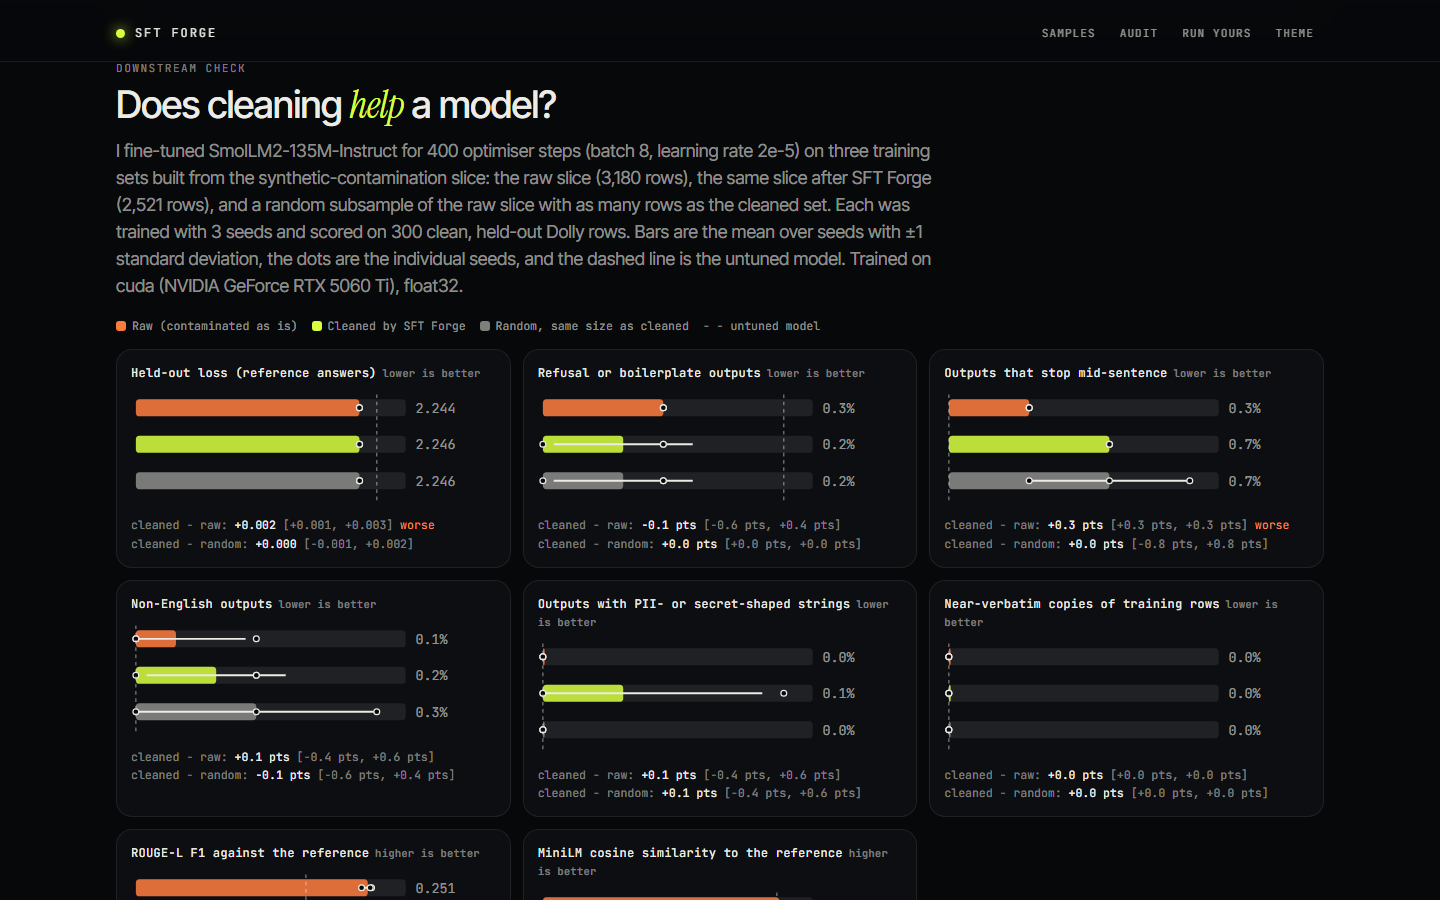
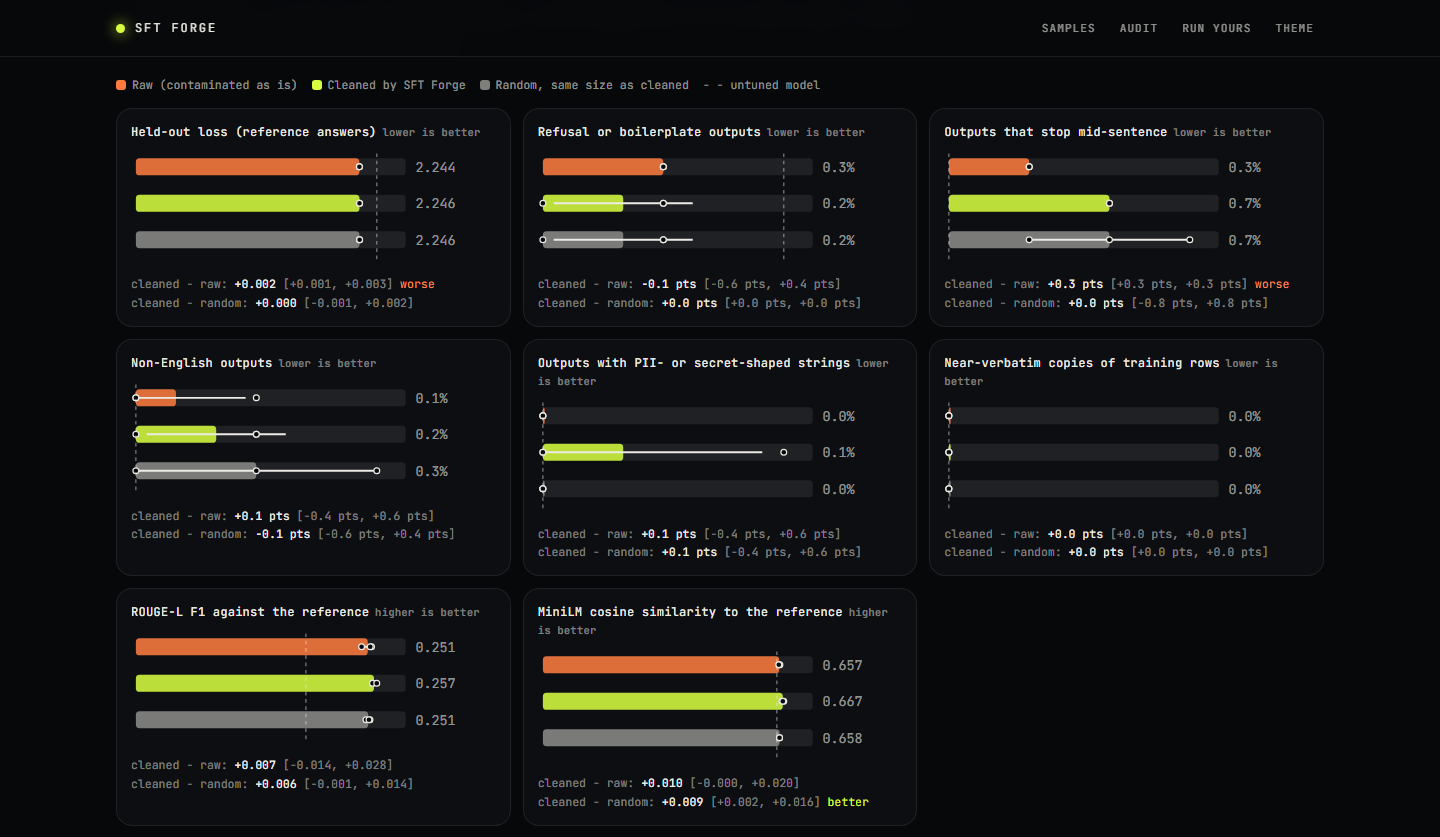
README: fix reviewed items, end-state screenshots, readable ft verdict, opaque top bar, section order

diff --git a/docs/forge.css b/docs/forge.css
@@ -53,7 +53,7 @@ button { cursor: pointer; }
 
 /* header */
 .top { position: sticky; top: 0; z-index: 30; backdrop-filter: blur(14px); -webkit-backdrop-filter: blur(14px);
-  background: color-mix(in srgb, var(--void) 78%, transparent); border-bottom: 1px solid var(--line); }
+  background: color-mix(in srgb, var(--void) 96%, transparent); border-bottom: 1px solid var(--line); }
 .top .wrap { display: flex; align-items: center; gap: 14px; height: 56px; }
 .brand { font-family: var(--mono); font-size: 12px; letter-spacing: .16em; text-transform: uppercase; text-decoration: none; display: flex; align-items: center; gap: 10px; }
 .brand i { width: 9px; height: 9px; border-radius: 50%; background: var(--lime); box-shadow: 0 0 14px var(--lime); display: inline-block; }

diff --git a/scripts/shoot.py b/scripts/shoot.py
@@ -33,15 +33,20 @@ def main() -> None:
             page.on("pageerror", lambda e, n=name: errors.append(f"{n} pageerror: {e}"))
             page.goto(args.url.rstrip("/") + "/?run=bench", wait_until="load")   # the benchmark run has visible rejects
             page.wait_for_function("window.__forge && window.__forge.sim.n > 0")
-            page.evaluate("document.querySelector('#stage').scrollIntoView({block: 'center'})")
-            page.wait_for_timeout(4200)
-            page.screenshot(path=str(out / f"{name}-streaming.png"))
             report[f"{name}_hscroll"] = page.evaluate("document.documentElement.scrollWidth - window.innerWidth")
-            page.click("#skip")
-            page.wait_for_timeout(600)
-            page.screenshot(path=str(out / f"{name}-done.png"), full_page=True)
-            # open the inspector on the first rejected row in the log
-            # open a clear, correct rejection: a refusal caught at the quality gate
+            page.click("#skip")                                   # the END state of the replay, never a mid-run frame
+            page.evaluate("document.fonts.ready")
+            page.wait_for_timeout(1500)
+            # cut at card boundaries below the sticky bar: the run chooser through the stat tiles on desktop,
+            # the whole stage card on a phone
+            top_sel, bottom_sel = ("#runs", "#stats") if not touch else ("#stage", "#stage")
+            page.evaluate(f"window.scrollTo(0, document.querySelector('{top_sel}').getBoundingClientRect().top + scrollY - {70 if not touch else 66})")
+            page.wait_for_timeout(500)
+            r1 = page.evaluate(f"document.querySelector('{bottom_sel}').getBoundingClientRect().bottom")
+            clip_top = 64
+            page.screenshot(path=str(out / f"{name}-streaming.png"),
+                            clip={"x": 0, "y": clip_top, "width": vp["width"], "height": min(vp["height"], r1 + 10) - clip_top})
+            # open the inspector on a clear, correct rejection: a refusal caught at the quality gate
             page.evaluate("document.querySelector('#f-reason').value='refusal_boilerplate'; document.querySelector('#f-reason').dispatchEvent(new Event('change'))")
             page.wait_for_timeout(200)
             page.locator("#logsp .row").first.scroll_into_view_if_needed()
@@ -49,13 +54,24 @@ def main() -> None:
                 page.locator("#logsp .row").first.tap()
             else:
                 page.locator("#logsp .row").first.click()
-            page.wait_for_timeout(700)
-            page.screenshot(path=str(out / f"{name}-inspector.png"))
+            page.wait_for_timeout(900)
+            page.evaluate("document.querySelector('#i-body').scrollTop = 0")
+            page.wait_for_timeout(200)
+            # cut at the bottom of the last check row that is fully visible, not through a row
+            cut = page.evaluate("""() => { const lim = innerHeight - 4; let b = 0;
+                document.querySelectorAll('#i-body .chk').forEach(e => { const r = e.getBoundingClientRect(); if (r.bottom <= lim && r.bottom > b) b = r.bottom; });
+                return b || innerHeight; }""")
+            page.screenshot(path=str(out / f"{name}-inspector.png"), clip={"x": 0, "y": 0, "width": vp["width"], "height": min(vp["height"], cut + 8)})
             if args.final:  # the downstream experiment view
                 page.click("#i-close")
-                page.evaluate("document.querySelector('#finetune').scrollIntoView({block: 'start'})")
-                page.wait_for_timeout(500)
-                page.screenshot(path=str(out / f"{name}-finetune.png"), full_page=False)
+                page.wait_for_timeout(700)
+                page.evaluate("window.scrollTo(0, document.querySelector('#ft-legend').getBoundingClientRect().top + scrollY - 76)")
+                page.wait_for_timeout(600)
+                # cut under the last card row that fits entirely in the viewport
+                cut = page.evaluate("""() => { const lim = innerHeight - 4; let b = 0;
+                    document.querySelectorAll('#ft-grid > *').forEach(e => { const r = e.getBoundingClientRect(); if (r.bottom <= lim && r.bottom > b) b = r.bottom; });
+                    return b || innerHeight; }""")
+                page.screenshot(path=str(out / f"{name}-finetune.png"), clip={"x": 0, "y": 0, "width": vp["width"], "height": min(vp["height"], cut + 12)})
             small = page.evaluate(
                 "[...document.querySelectorAll('button, a, select, input, label.btn')].filter(e => e.offsetParent && "
                 "(e.getBoundingClientRect().height < 43.5) && !e.classList.contains('sr')).map(e => e.id || e.textContent.trim().slice(0,20))")
@@ -69,7 +85,7 @@ def main() -> None:
 
         dst = ROOT / "docs" / "assets"
         dst.mkdir(parents=True, exist_ok=True)
-        for n in ("desktop-streaming", "phone-streaming", "desktop-inspector", "phone-inspector", "desktop-finetune", "phone-finetune"):
+        for n in ("desktop-streaming", "phone-streaming", "phone-inspector", "desktop-finetune"):
             shutil.copy(out / f"{n}.png", dst / f"{n}.png")
 
 

diff --git a/scripts/check_numbers.py b/scripts/check_numbers.py
@@ -333,20 +333,34 @@ def block_ft_verdict(s: dict) -> str:
             f"(cleaned) and {mean('random', 'loss'):.3f} (random), and ROUGE-L rose from {mean('base', 'rouge_l'):.3f} to "
             f"{mean('raw', 'rouge_l'):.3f}, {mean('cleaned', 'rouge_l'):.3f} and {mean('random', 'rouge_l'):.3f}.")
     parts = [head]
+    explained = False
+
+    def short(label: str) -> str:
+        base = label.split(" (")[0]
+        first = base.split(" ")[0]
+        return base if any(ch.isupper() for ch in first[1:]) else base[0].lower() + base[1:]
+
     for key, name in (("cleaned_minus_raw", "raw"), ("cleaned_minus_random", "the size-matched random subsample")):
-        better = [f"{m['label'][0].lower() + m['label'][1:]} ({sgn(m['key'], f['paired'][key][m['key']]['mean_diff'])})" for m in f["metrics"]
+        better = [f"{short(m['label'])} ({sgn(m['key'], f['paired'][key][m['key']]['mean_diff'])})" for m in f["metrics"]
                   if f["paired"][key][m["key"]]["favours_cleaned"] is True]
-        worse = [f"{m['label'][0].lower() + m['label'][1:]} ({sgn(m['key'], f['paired'][key][m['key']]['mean_diff'])})" for m in f["metrics"]
+        worse = [f"{short(m['label'])} ({sgn(m['key'], f['paired'][key][m['key']]['mean_diff'])})" for m in f["metrics"]
                  if f["paired"][key][m["key"]]["favours_cleaned"] is False]
         if not better and not worse:
             parts.append(f"Against {name}, no measure had a paired {n_seeds}-seed 95% interval that excludes zero.")
-        else:
-            bits = []
-            if better:
-                bits.append("statistically better on " + "; ".join(better))
-            if worse:
-                bits.append("statistically worse on " + "; ".join(worse))
-            parts.append(f"Against {name}, the cleaned set was " + " and ".join(bits) + ", meaning the {n}-seed 95% interval excludes zero.".replace("{n}", str(n_seeds)))
+            continue
+
+        def joined(items: list[str]) -> str:
+            return items[0] if len(items) == 1 else ", ".join(items[:-1]) + " and on " + items[-1]
+
+        bits = []
+        if better:
+            bits.append("statistically better on " + joined(better))
+        if worse:
+            bits.append("statistically worse on " + joined(worse))
+        subject = "the cleaned set was" if not explained else "it was"
+        tail = ", on the same criterion." if explained else f", meaning the {n_seeds}-seed 95% interval excludes zero."
+        explained = True
+        parts.append(f"Against {name}, {subject} " + " and ".join(bits) + tail)
     return " ".join(parts)
 
 

diff --git a/README.md b/README.md
@@ -1,16 +1,21 @@
 # SFT Forge
 
+[![CI](https://github.com/Aditya2616/SFT-Forge/actions/workflows/ci.yml/badge.svg)](https://github.com/Aditya2616/SFT-Forge/actions/workflows/ci.yml)
+[![Licence: MIT](https://img.shields.io/badge/licence-MIT-blue.svg)](LICENSE)
+
 **Clean instruction-tuning data, before it ever reaches training.**
 
 SFT Forge takes candidate instruction-response pairs (Alpaca, Dolly, chat-messages or ShareGPT JSONL) and passes them through three gates: **dedupe**, **quality** and **safety**. The survivors are balanced across categories, split into train and validation, and exported as a supervised fine-tuning set together with an audit report. Every rejected row keeps its reasons and the measured scores that caused them, so nothing is dropped silently.
 
+On the one downstream test I ran (a 135M model, three seeds), cleaning made no practical difference; the gates are measured against injected defects, not shown to improve models (see Results).
+
 Stack: Python, Pandas, Hugging Face Datasets. It runs fully offline on CPU after a one-time model download and needs no API keys.
 
-![The pipeline streaming a recorded run](docs/assets/desktop-streaming.png)
+![The pipeline after a recorded run on the synthetic benchmark: lanes of kept and rejected samples, gate counters and the category mix](docs/assets/desktop-streaming.png)
 
 <p>
-<img src="docs/assets/phone-streaming.png" alt="Phone layout" width="240">
-<img src="docs/assets/phone-inspector.png" alt="Per-sample inspector on a phone" width="240">
+<img src="docs/assets/phone-streaming.png" alt="Phone layout of the finished run: the pipeline lanes and gate counters" width="260">
+<img src="docs/assets/phone-inspector.png" alt="The per-sample inspector on a phone, listing every rule's measured value against its threshold" width="260">
 </p>
 
 The screenshots show the synthetic-contamination run, where rejections are frequent enough to watch. The web UI (in `docs/`) replays two real recorded runs, or runs your own pasted or uploaded JSONL through the local server. Samples that fail a gate flash orange where they were caught and are knocked out of the lane with their reason code; survivors turn lime as they land in the SFT set. Tap any sample to see why it was rejected first, then every rule's measured value against its threshold.
@@ -43,56 +48,6 @@ The frame carries audit columns (`status`, `gate`, `reasons`, `scores`). A row i
 - **Balance and export:** no category may exceed `max_share` of the final set (skipped below 100 survivors), then a seeded stratified split.
 
 All thresholds are in [`configs/default.yaml`](configs/default.yaml).
-
-## Quickstart
-
-Python 3.11+ (developed on 3.13). It runs on CPU; if a CUDA build of PyTorch is installed it uses the GPU automatically. On a machine without a GPU you can save a large download by installing the CPU build of PyTorch before the project (I did not run this command, since PyTorch was already installed here):
-
-```bash
-pip install torch --index-url https://download.pytorch.org/whl/cpu
-```
-
-The first run downloads two small models (about 0.5 GB) from Hugging Face.
-
-```bash
-git clone https://github.com/Aditya2616/SFT-Forge.git
-cd SFT-Forge
-python -m venv .venv
-source .venv/bin/activate        # Windows: .venv\Scripts\activate
-pip install -e ".[dev]"
-
-# 1. a small messy file I wrote for this: duplicates, cut-off answers, refusals, PII, fake secrets
-sftforge run examples/messy_sample.jsonl --config configs/default.yaml --out out/messy
-cat out/messy/audit.md
-
-# 2. the committed Dolly sample, already cleaned, so nearly everything is kept
-sftforge run data_sample/dolly_cleaned_sample.jsonl --config configs/default.yaml --out out/sample
-
-# web UI with live mode (paste or upload JSONL)
-sftforge serve --port 8104       # then open http://127.0.0.1:8104/
-
-# the device is picked automatically (cuda if available, else cpu); override with
-#   --device cpu   or   SFTFORGE_DEVICE=cpu
-```
-
-`examples/messy_sample.jsonl` has 60 rows I wrote (MIT, not Dolly): clean rows across eight categories plus exact, near and paraphrase duplicates, cut-off answers, refusals and boilerplate, two wrong-language rows, two off-topic answers, emails, phone numbers and a test card number to redact, two obviously fake secrets in documented example formats, and one mildly toxic row. Running it on the CPU gave this audit (`scripts/record_messy.py` stores it in `results/messy_sample_audit.json`; it matches `out/messy/audit.md`):
-
-<!-- gen:messy -->
-| Gate | In | Rejected | Out | Reasons |
-|---|---:|---:|---:|---|
-| dedupe | 60 | 6 | 54 | exact 2, near 2, semantic 2 |
-| quality | 54 | 12 | 42 | refusal 5, truncated 3, off topic 2, wrong language 2 |
-| safety | 42 | 3 | 39 | secret 2, toxicity 1 |
-| balance | 39 | 0 | 39 | none |
-
-39 of 60 rows are kept (31 train, 8 validation); 2 emails, 2 phone numbers and 1 card number were redacted in kept rows, and 21 rows were rejected.
-<!-- /gen:messy -->
-
-Every injected defect was caught and no clean row was rejected, but the file is small and I wrote it to be caught, so it shows what each gate does and is not a measurement (see Results for those). The same file loads behind the **Load a messy example** button in the web UI's "Your data" tab, so you can run it live in one tap.
-
-`out/<name>/` contains `train.jsonl`, `val.jsonl`, chat-format files, a Hugging Face dataset, `DATASET_CARD.md`, `audit.json`, `audit.md` and `rejects.jsonl`. To host the demo statically, serve `docs/` with any file server; recorded runs need no backend.
-
-Live mode limits: 500 rows and 2 MB per request (`SFTFORGE_MAX_ROWS`, `SFTFORGE_MAX_UPLOAD_BYTES`), input and results held in memory (the zip export is built in a temporary folder that is deleted afterwards), nothing executed. The model choice and its revisions cannot be changed from a request.
 
 ## Results
 
@@ -194,7 +149,7 @@ As implemented, the check is a net loss, so I left it off. It adds no recall on 
 
 The benchmark shows that the gates catch injected defects. This section asks the downstream question: does a small model trained on the cleaned data behave better than one trained on the contaminated data? After `python scripts/fetch_data.py` and `python scripts/make_benchmark.py --slice bench --seed 2026`, `python scripts/finetune_compare.py` trains and scores every run (it resumes from `results/finetune/runs/`), then writes `results/finetune/results.json`, which the web UI's "Does cleaning help a model?" section reads. No weights are saved.
 
-![The fine-tuning comparison in the web UI](docs/assets/desktop-finetune.png)
+![The fine-tuning comparison in the web UI: raw, cleaned and random training sets against the untuned model](docs/assets/desktop-finetune.png)
 
 <!-- gen:ft_setup -->
 SmolLM2-135M-Instruct was fine-tuned in float32 on the GPU for 400 optimiser steps of 8 examples (micro-batches of 1), AdamW at a peak learning rate of 2e-05 with 20 warm-up steps and cosine decay, loss on the response tokens only, 3 seeds per training set. A run took 7.3 to 21.6 minutes of training and used at most 3.3 GiB of GPU memory (reserved; capped at 3.9 GiB). Device: `cuda (NVIDIA GeForce RTX 5060 Ti), float32`.
@@ -234,14 +189,90 @@ Paired by seed, with a 95% t-interval over the seeds (a seed fixes the data orde
 <!-- /gen:ft_paired -->
 
 <!-- gen:ft_verdict -->
-All three fine-tuned sets moved the model the same way and by about the same amount: held-out loss fell from 2.419 for the untuned model to 2.244 (raw), 2.246 (cleaned) and 2.246 (random), and ROUGE-L rose from 0.184 to 0.251, 0.257 and 0.251. Against raw, the cleaned set was statistically worse on held-out loss (reference answers) (+0.002); outputs that stop mid-sentence (+0.3 pts), meaning the 3-seed 95% interval excludes zero. Against the size-matched random subsample, the cleaned set was statistically better on miniLM cosine similarity to the reference (+0.009), meaning the 3-seed 95% interval excludes zero.
+All three fine-tuned sets moved the model the same way and by about the same amount: held-out loss fell from 2.419 for the untuned model to 2.244 (raw), 2.246 (cleaned) and 2.246 (random), and ROUGE-L rose from 0.184 to 0.251, 0.257 and 0.251. Against raw, the cleaned set was statistically worse on held-out loss (+0.002) and on outputs that stop mid-sentence (+0.3 pts), meaning the 3-seed 95% interval excludes zero. Against the size-matched random subsample, it was statistically better on MiniLM cosine similarity to the reference (+0.009), on the same criterion.
 <!-- /gen:ft_verdict -->
 
 **Reading it plainly.** At this scale, cleaning with SFT Forge made no practical difference to the model. Fine-tuning on any of the three sets moved the model toward the Dolly answer style and improved the loss and the ROUGE-L score by the same amount, and the differences between the sets are within a few thousandths on loss and about a hundredth on the similarity scores, or amount to a single prompt out of the held-out set. Where an interval excludes zero (see the paired table), the effect is tiny and points in different directions for different measures: against the raw set the flagged differences are on held-out loss and on one output that stops mid-sentence, both slightly in raw's favour, and against the size-matched random subsample the only flagged difference is a MiniLM similarity gain of about a hundredth. With eight measures and three seeds, one borderline interval is weak evidence, so I cannot attribute any gain to the cleaning rather than to chance or to the size of the set.
 
 Likely reasons, none of which I have tested here: the defects are a modest share of the data (a fifth of the rows, split over many types), and one pass of a short budget teaches a small instruction-tuned model mostly the answer style, not individual defects; duplicates and memorised rows matter most when a set is repeated for several epochs, and here each set is seen about once, so verbatim copying never appears; the held-out prompts are ordinary questions that rarely invite a refusal or a different language; with 300 prompts one output moves a rate by a third of a percentage point, so rare behaviours are below the resolution of this evaluation; and the base model is already instruction-tuned, so there is little refusal boilerplate for contaminated data to add. A larger model, a longer or multi-epoch run, a higher contamination rate, or an evaluation aimed at the specific defects might show an effect; this experiment does not.
 
-## The recorded demo format
+## Quickstart
+
+Python 3.11+ (developed on 3.13). It runs on CPU; if a CUDA build of PyTorch is installed it uses the GPU automatically. On a machine without a GPU you can save a large download by installing the CPU build of PyTorch before the project (optional; skip it if PyTorch is already installed):
+
+```bash
+pip install torch --index-url https://download.pytorch.org/whl/cpu
+```
+
+The first run downloads two small models (about 0.5 GB) from Hugging Face.
+
+```bash
+git clone https://github.com/Aditya2616/SFT-Forge.git
+cd SFT-Forge
+python -m venv .venv
+source .venv/bin/activate        # Windows: .venv\Scripts\activate
+pip install -e ".[dev]"
+
+# 1. a small messy file I wrote for this: duplicates, cut-off answers, refusals, PII, fake secrets
+sftforge run examples/messy_sample.jsonl --config configs/default.yaml --out out/messy
+cat out/messy/audit.md
+
+# 2. the committed Dolly sample, already cleaned, so nearly everything is kept
+sftforge run data_sample/dolly_cleaned_sample.jsonl --config configs/default.yaml --out out/sample
+
+# web UI with live mode (paste or upload JSONL)
+sftforge serve --port 8104       # then open http://127.0.0.1:8104/
+
+# the device is picked automatically (cuda if available, else cpu); override with
+#   --device cpu   or   SFTFORGE_DEVICE=cpu
+```
+
+`examples/messy_sample.jsonl` has 60 rows I wrote (MIT, not Dolly): clean rows across eight categories plus exact, near and paraphrase duplicates, cut-off answers, refusals and boilerplate, two wrong-language rows, two off-topic answers, emails, phone numbers and a test card number to redact, two obviously fake secrets in documented example formats, and one mildly toxic row. Running it on the CPU gave this audit (`scripts/record_messy.py` stores it in `results/messy_sample_audit.json`; it matches `out/messy/audit.md`):
+
+<!-- gen:messy -->
+| Gate | In | Rejected | Out | Reasons |
+|---|---:|---:|---:|---|
+| dedupe | 60 | 6 | 54 | exact 2, near 2, semantic 2 |
+| quality | 54 | 12 | 42 | refusal 5, truncated 3, off topic 2, wrong language 2 |
+| safety | 42 | 3 | 39 | secret 2, toxicity 1 |
+| balance | 39 | 0 | 39 | none |
+
+39 of 60 rows are kept (31 train, 8 validation); 2 emails, 2 phone numbers and 1 card number were redacted in kept rows, and 21 rows were rejected.
+<!-- /gen:messy -->
+
+Every injected defect was caught and no clean row was rejected, but the file is small and I wrote it to be caught, so it shows what each gate does and is not a measurement (see Results for those). The same file loads behind the **Load a messy example** button in the web UI's "Your data" tab, so you can run it live in one tap.
+
+`out/<name>/` contains `train.jsonl`, `val.jsonl`, chat-format files, a Hugging Face dataset, `DATASET_CARD.md`, `audit.json`, `audit.md` and `rejects.jsonl`. To host the demo statically, serve `docs/` with any file server; recorded runs need no backend.
+
+Live mode limits: 500 rows and 2 MB per request (`SFTFORGE_MAX_ROWS`, `SFTFORGE_MAX_UPLOAD_BYTES`), input and results held in memory (the zip export is built in a temporary folder that is deleted afterwards), nothing executed. The model choice and its revisions cannot be changed from a request.
+
+## Reproduce and test
+
+```bash
+ruff check .
+pytest                # fast offline tests with a stub embedder and toxicity scorer
+pytest -m slow        # tests with the real MiniLM and toxic-bert models
+python scripts/check_numbers.py --check   # README numbers match the results files (--write regenerates them)
+```
+
+CI (`.github/workflows/ci.yml`) runs lint and the fast tests. The web UI is checked with headless Chromium scripts (`scripts/shoot.py`, `scripts/check_ui.py`) at 1440x900 and 390x844 with touch, in served and static modes.
+
+## Layout
+
+```
+src/sftforge/   loaders, normalize, gates/, detectors/, balance, export, card, audit, pipeline, cli, server/
+configs/        default.yaml (every threshold)
+scripts/        fetch_data, make_benchmark, eval_benchmark, eval_perplexity, finetune_compare, run_dolly, record_messy, throughput, check_numbers, smoke, shoot, check_ui
+docs/           web UI (served locally and as a static demo), data/ recorded runs, assets/, notes/ (research, spec)
+examples/       messy_sample.jsonl: 60 hand-written rows with every defect type (MIT)
+data_sample/    1,000 cleaned Dolly rows (CC BY-SA 3.0, see `data_sample/NOTICE.md`)
+results/        measured outputs behind the numbers above
+tests/
+```
+
+## Static demo and recorded runs
+
+There is no hosted demo yet; the `docs/` folder is a complete static site, so it can be served by GitHub Pages or any file server (`python -m http.server --directory docs`).
 
 The static demo must load quickly on a phone, so a recorded run is an index plus chunks, written by `scripts/run_dolly.py` and `scripts/eval_benchmark.py --recorded-dir`:
 
@@ -272,30 +303,6 @@ Text is clipped in the detail files (instruction 240, context 120, response 380 
 <!-- /gen:throughput -->
 - The fine-tuning comparison is small: one 135M-parameter model, one contaminated slice with defects I injected, a short training budget, three seeds and a 300-row held-out set. It says what these defects teach this model under this budget, and it cannot speak to larger models, real web data or longer training.
 - Only the local pipeline paths are implemented; there are no hosted-model adapters.
-
-## Tests
-
-```bash
-ruff check .
-pytest                # fast offline tests with a stub embedder and toxicity scorer
-pytest -m slow        # tests with the real MiniLM and toxic-bert models
-python scripts/check_numbers.py --check   # README numbers match the results files (--write regenerates them)
-```
-
-CI (`.github/workflows/ci.yml`) runs lint and the fast tests. The web UI is checked with headless Chromium scripts (`scripts/shoot.py`, `scripts/check_ui.py`) at 1440x900 and 390x844 with touch, in served and static modes.
-
-## Layout
-
-```
-src/sftforge/   loaders, normalize, gates/, detectors/, balance, export, card, audit, pipeline, cli, server/
-configs/        default.yaml (every threshold)
-scripts/        fetch_data, make_benchmark, eval_benchmark, eval_perplexity, finetune_compare, run_dolly, record_messy, throughput, check_numbers, smoke, shoot, check_ui
-docs/           web UI (served locally and as a static demo), data/ recorded runs, assets/, notes/ (research, spec)
-examples/       messy_sample.jsonl: 60 hand-written rows with every defect type (MIT)
-data_sample/    1,000 cleaned Dolly rows (CC BY-SA 3.0, see NOTICE.md)
-results/        measured outputs behind the numbers above
-tests/
-```
 
 ## Credits and licences
 
